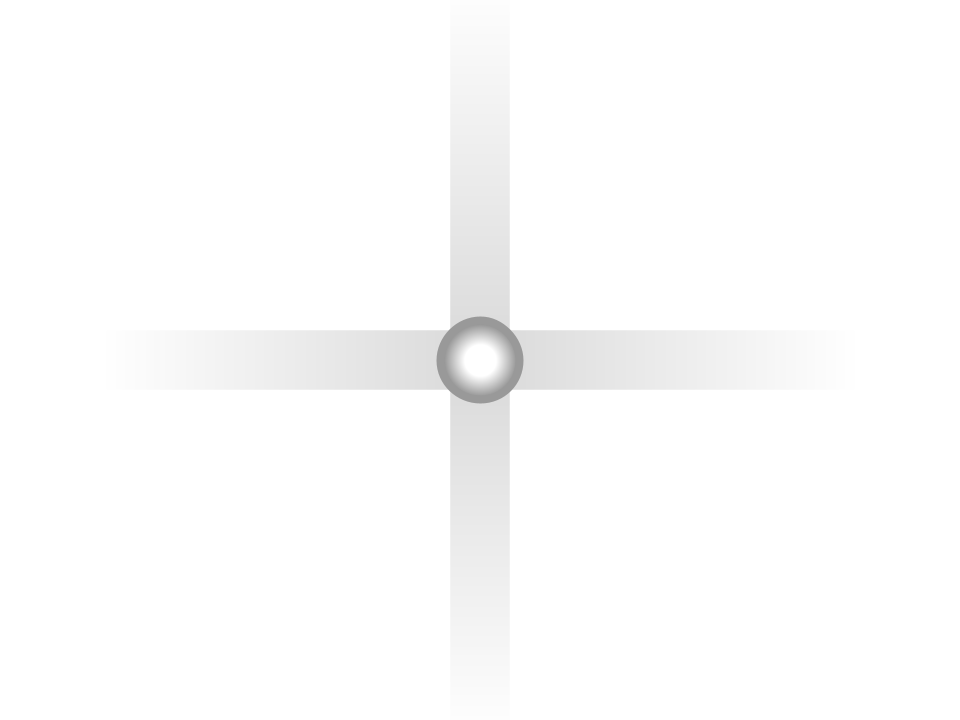
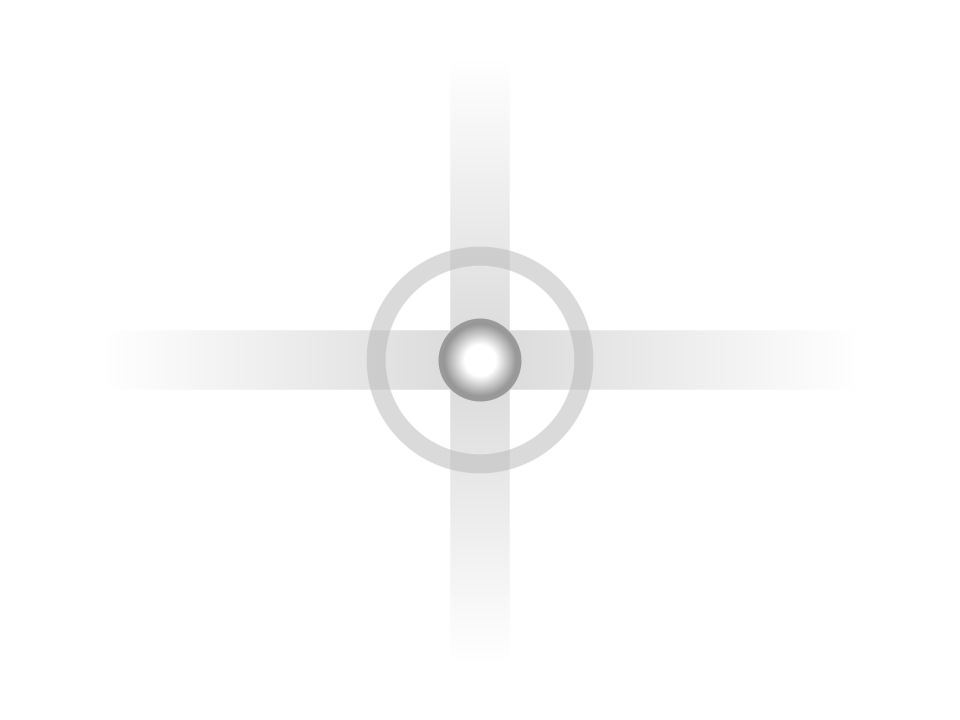
Major system update

diff --git a/GameRunner.java b/GameRunner.java
@@ -1,6 +1,7 @@
 import java.awt.event.*;
 import java.awt.Color;
 import java.awt.Dimension;
+import java.awt.Font;
 import java.awt.Graphics;
 import java.awt.Rectangle;
 import java.awt.image.BufferedImage;
@@ -11,13 +12,18 @@ import java.io.*;
 public class GameRunner extends JPanel implements KeyListener, ActionListener {
     Bullet b;
     BulletSprite cl = new BulletSprite();
-    BufferedImage emp = cl.BTABLE[0][0][18], e;
-    boolean up, down, left, right, focsus;
-    int x, y, size, dy, dx, focus = 7, W = emp.getWidth(), H = emp.getHeight(), gametime = 1;
+    BufferedImage player = cl.BTABLE[0][0][18], bulletImg, gamerender;
+    boolean up, down, left, right, focsus, bombing;
+    int x, y, size, dy, dx, focus = 7, W = player.getWidth(), H = player.getHeight(), gametime = 1;
     ArrayList<Bullet> bullets = new ArrayList<>(); //add mindustry/sol'srng/woomyarras spellcards
-    Spellcard spell = new SC1(1);
+    GameState gamestate = new GameState(0, 0, 1, 999, 999, 100, 1, 0);
+    Spellcard spell = new SC1(gamestate.difficulty);
     Rectangle bound;
     public GameRunner() throws IOException {
+        addKeyListener(this); 
+        setFocusable(true);
+        setPreferredSize(new Dimension(1440, 900));
+        setBackground(Color.BLACK);
         
         int[][] palette = spell.getPalette();
         for (int i = 0; i < palette.length; i++) {
@@ -25,13 +31,8 @@ public class GameRunner extends JPanel implements KeyListener, ActionListener {
         }
 
         size = 30;
-        x = 400;
-        y = 400;
-
-        addKeyListener(this); 
-        setFocusable(true);
-        setPreferredSize(new Dimension(1440, 900));
-        setBackground(Color.BLACK);
+        x = (int)getPreferredSize().getWidth() / 2;
+        y = (int)getPreferredSize().getHeight() / 2;
 
         bound = new Rectangle(300, 50, 
         (int)(this.getPreferredSize().getWidth() - 600), 
@@ -66,12 +67,29 @@ public class GameRunner extends JPanel implements KeyListener, ActionListener {
                 game over screen
         */
         
-        g.drawImage(emp, x - W / 2, y - H / 2, (int)W, (int)H, this);
+        g.drawImage(player, x - W / 2, y - H / 2, (int)W, (int)H, this);
 
         for(int i = 0; i < bullets.size(); i++) {
             bullets.set(i, spell.bulletUpdate(bullets.get(i)));
             b = bullets.get(i);
-            e = cl.BTABLE[b.palette][(int)(b.deg + 180) % 360][b.type];
+            bulletImg = cl.BTABLE[b.palette][(int)(b.deg + 180) % 360][b.type];
+
+            int distance = (int)Math.sqrt(Math.pow(b.x - x, 2) + Math.pow(b.y - y, 2));
+            if (distance < 15 && !b.grazed) {
+                gamestate.graze += 1;
+                b.grazed = true;
+            }
+            if (distance < b.hitRadius) {
+                gamestate.life -= 1;
+            }
+            if (bombing && gamestate.bomb > 0 && distance < 200) {
+                if (b.remainingLife > 29) {
+                    b.remainingLife = b.life - 29;
+                }
+                b.setVel(b.vel - 0.3);
+                b.setDeg(Math.toDegrees(Math.atan2(b.x - x, b.y - y)) + 90);
+                bullets.set(i, b);
+            }
 
             double p = 1.0;
             if (b.remainingLife > (b.life - 30)) {
@@ -80,12 +98,14 @@ public class GameRunner extends JPanel implements KeyListener, ActionListener {
                 p = (double)b.remainingLife / 30;
             }
 
-            g.drawImage(e, 
-            (int)(b.x - (e.getWidth() / 2 / b.size) * p), 
-            (int)(b.y - (e.getHeight() / 2 / b.size) * p), 
-            (int)(e.getWidth() / (b.size / p)), 
-            (int)(e.getHeight() / (b.size / p)), 
+            g.drawImage(bulletImg, 
+            (int)(b.x - (bulletImg.getWidth() / 2 / b.size) * p), 
+            (int)(b.y - (bulletImg.getHeight() / 2 / b.size) * p), 
+            (int)(bulletImg.getWidth() / (b.size / p)), 
+            (int)(bulletImg.getHeight() / (b.size / p)), 
             null);
+            
+            //g.setColor(Color.RED); g.drawArc((int)b.x - b.hitRadius, (int)b.y - b.hitRadius, b.hitRadius * 2, b.hitRadius * 2, 0, 360);
 
             bullets.get(i).updatePosition();
             if (bullets.get(i).lifetime()) {
@@ -94,17 +114,36 @@ public class GameRunner extends JPanel implements KeyListener, ActionListener {
             }
         }
 
+        if (bombing && gamestate.bomb > 0) {
+            gamestate.bomb -= 1;
+        }
+
         int minX = (int)bound.getMinX(), minY = (int)bound.getMinY(),
         maxX = (int)bound.getMaxX(), maxY = (int)bound.getMaxY(),
         width = (int)bound.getWidth(), height = (int)bound.getHeight();
-        x = Math.max(minX, Math.min(x + dx, maxX));
-        y = Math.max(minY, Math.min(y + dy, maxY));
         for(int i = minX; i >= 0; i--) {
             g.setColor(new Color(0, 0, 0, 1 - i / (float)minX));
             g.drawRect(minX - i, minY - i, width + 2 * i, height + 2 * i);
         }
-        g.setColor(new Color(Color.HSBtoRGB((float)((gametime % 360.0) / 360.0), 1, 1)));
-        g.drawRect(minX, minY, width, height);
+        for(int i = 3; i >= 0; i--) {
+            int sine = (int)(10 * i * Math.pow(Math.sin(gametime * 0.01), 2));
+            g.setColor(new Color(Color.HSBtoRGB((float)((gametime % 360.0) / 360.0), 1, 1f / (i + 1))));
+            g.drawRect(minX - sine - i, minY - sine - i, width + 2 * sine + 2 * i, height + 2 * sine + 2 * i);
+        }
+
+        g.setFont(new Font("Monospaced", Font.BOLD, 20));
+        g.drawString("Life: " + gamestate.life, minX, maxY + 32);
+        for(int i = 0; i < 6; i++) {
+            g.fill3DRect(minX + i + 120, maxY + 10 + i, (int)(200 * (gamestate.life / 1000.0)) - 2 * i, 30 - 2 * i, true);
+        }
+        g.drawString("Bomb: " + gamestate.bomb, minX + 340, maxY + 32);
+        for(int i = 0; i < 6; i++) {
+            g.fill3DRect(minX + i + 460, maxY + 10 + i, (int)(200 * (gamestate.bomb / 1000.0)) - 2 * i, 30 - 2 * i, true);
+        }
+        g.drawString("Graze: " + gamestate.graze, minX + 680, maxY + 32);
+
+        x = Math.max(minX, Math.min(x + dx, maxX));
+        y = Math.max(minY, Math.min(y + dy, maxY));
     }
     @Override
     public void actionPerformed(ActionEvent ae) {
@@ -136,6 +175,9 @@ public class GameRunner extends JPanel implements KeyListener, ActionListener {
         if (ke.getKeyCode() == KeyEvent.VK_SHIFT) {
             focsus = true;
         }
+        if (ke.getKeyCode() == KeyEvent.VK_X) {
+            bombing = true;
+        }
         if (ke.getKeyCode() == KeyEvent.VK_UP) {
             up = true;
         } else if (ke.getKeyCode() == KeyEvent.VK_DOWN) {
@@ -152,6 +194,9 @@ public class GameRunner extends JPanel implements KeyListener, ActionListener {
     public void keyReleased(KeyEvent ke) {
         if (ke.getKeyCode() == KeyEvent.VK_SHIFT) {
             focsus = false;
+        }
+        if (ke.getKeyCode() == KeyEvent.VK_X) {
+            bombing = false;
         }
         if (ke.getKeyCode() == KeyEvent.VK_UP) {
             up = false;

diff --git a/BulletSprite.java b/BulletSprite.java
@@ -5,7 +5,7 @@ import javax.imageio.*;
 public class BulletSprite {
     public BufferedImage[][][] BTABLE = new BufferedImage[360][360][50];
     public BulletSprite () throws IOException {
-        for (int i = 0; i < 34; i++) {
+        for (int i = 0; i < 38; i++) {
             BTABLE[0][0][i] = resizeImage(ImageIO.read(new File("Images/bullet" + i + ".png")), 200, 150);
             for (int j = 0; j < 360; j++) {
                 BTABLE[0][j][i] = rotateImage(BTABLE[0][0][i], -j);
@@ -14,8 +14,15 @@ public class BulletSprite {
         }
     }
     public void setPalette(int palette, int type, int hue, int graditude) {
+        setPaletteHSV(palette, type, hue, graditude, 0.4f, 0, 1, 0);
+    }
+    public void setPaletteHSV(int palette, int type, int hue, int graditude, float sat, float satitude, float val, float valitude) {
         for (int j = 0; j < 360; j++) {
-            BTABLE[palette][j][type] = recolorImage(BTABLE[0][j][type], hue + (int)(Math.cos(Math.PI * j / 180.0) * graditude));
+            BTABLE[palette][j][type] = recolorImage(BTABLE[0][j][type], 
+            hue + (int)(Math.cos(Math.PI * j / 180.0) * graditude),
+            sat + (float)(Math.cos(Math.PI * j / 180.0) * satitude),
+            val + (float)(Math.cos(Math.PI * j / 180.0) * valitude)
+            );
         }
     }
     public BufferedImage resizeImage(BufferedImage img, int newW, int newH) {  
@@ -37,26 +44,52 @@ public class BulletSprite {
         g.dispose();
         return gg;
     }
-    public BufferedImage recolorImage(BufferedImage src, int hue) {
-        int w = src.getWidth(), h = src.getHeight();
-        BufferedImage dst = new BufferedImage(w, h, BufferedImage.TYPE_INT_ARGB);
-        final float H = (float)(hue / 360.0);
+    public BufferedImage recolorImage(BufferedImage src, int hueDeg, float satTarget, float valMul) {
+            final int w = src.getWidth(), h = src.getHeight();
+    final int[] srcPix = src.getRGB(0, 0, w, h, null, 0, w);
+    final int[] dstPix = new int[srcPix.length];
 
-        for (int y = 0; y < h; y++) {
-            for (int x = 0; x < w; x++) {
-                int argb = src.getRGB(x, y);
-                int a = (argb >>> 24) & 0xFF;
-                if (a == 0) { // 완전 투명은 그대로
-                    dst.setRGB(x, y, 0x00000000);
-                    continue;
-                }
-                int r = (argb >>> 16) & 0xFF;
-                float s = 1f - (r / 255f);
-                float v = (r / 255f);
-                int rgb = Color.HSBtoRGB(H, s, v) & 0x00FFFFFF;
-                dst.setRGB(x, y, (a << 24) | rgb);
-            }
+    final float hue = ((hueDeg % 360) + 360) % 360 / 360f;
+
+    // 임계값: “하양으로 남길” 밝기/색차 기준, “회색으로 간주할” 색차 기준
+    final int WHITE_LUMA_THR = 250;     // r,g,b >= 250 → 거의 하양
+    final int GRAY_DELTA_THR = 10;      // |r-g|,|r-b|,|g-b| <= 10 → 회색 계열로 간주
+
+    for (int i = 0; i < srcPix.length; i++) {
+        int p = srcPix[i];
+        int a = (p >>> 24) & 0xFF;
+        if (a == 0) { dstPix[i] = 0x00000000; continue; }
+
+        int r = (p >>> 16) & 0xFF;
+        int g = (p >>>  8) & 0xFF;
+        int b =  p         & 0xFF;
+
+        // 거의 하양? 그대로 둔다(완전 흰색 유지)
+        if (r >= WHITE_LUMA_THR && g >= WHITE_LUMA_THR && b >= WHITE_LUMA_THR) {
+            dstPix[i] = (a << 24) | (r << 16) | (g << 8) | b;
+            continue;
         }
-        return dst;
+
+        // 회색 계열? → hue 입히고 채도/밝기 조정
+        int rg = Math.abs(r - g), rb = Math.abs(r - b), gb = Math.abs(g - b);
+        if (rg <= GRAY_DELTA_THR && rb <= GRAY_DELTA_THR && gb <= GRAY_DELTA_THR) {
+            float[] hsb = Color.RGBtoHSB(r, g, b, null);
+            float s = clamp01(satTarget);           // 회색은 s≈0 → 목표 채도로 강제
+            float v = clamp01(hsb[2] * valMul);     // 밝기는 원본 기반 배율
+            int rgb = Color.HSBtoRGB(hue, s, v) & 0x00FFFFFF;
+            dstPix[i] = (a << 24) | rgb;
+        } else {
+            // 회색 아니면 원본 유지(원하면 여기서도 약한 틴트 가능)
+            dstPix[i] = (a << 24) | (r << 16) | (g << 8) | b;
+        }
+    }
+
+    BufferedImage dst = new BufferedImage(w, h, BufferedImage.TYPE_INT_ARGB);
+    dst.setRGB(0, 0, w, h, dstPix, 0, w);
+    return dst;
+
+    }
+    private static float clamp01(float v) {
+        return v < 0f ? 0f : (v > 1f ? 1f : v);
     }
 }

diff --git a/TouhouQuartet.java b/TouhouQuartet.java
@@ -1,25 +1,22 @@
 import javax.swing.*;
-import java.awt.Color;
 import java.awt.Dimension;
-import java.awt.Toolkit;
 import java.io.IOException;
 
 public class TouhouQuartet {
     public static void main(String[] args) throws IOException {
-        //SwingUtilities.invokeLater(() -> {
-            try {
-                JFrame frame = new JFrame("Touhou Four");
-                frame.setDefaultCloseOperation(JFrame.EXIT_ON_CLOSE);
-                GameRunner g = new GameRunner();
-                frame.add(g);
-                frame.setPreferredSize(new Dimension(1440, 900));
-                frame.pack();
-                frame.setVisible(true);
-                frame.toFront();
-            } catch (Exception e) {
-                e.printStackTrace();
-                System.out.print("OMG");
-            }
-        //});
+        try {
+            System.setProperty("sun.java2d.opengl","true");
+            JFrame frame = new JFrame("Touhou Four");
+            frame.setDefaultCloseOperation(JFrame.EXIT_ON_CLOSE);
+            GameRunner g = new GameRunner();
+            frame.add(g);
+            frame.setPreferredSize(new Dimension(1440, 900));
+            frame.pack();
+            frame.setVisible(true);
+            frame.toFront();
+        } catch (Exception e) {
+            e.printStackTrace();
+            System.out.print("OMG");
+        }
     }
 }

diff --git a/Spellcard.java b/Spellcard.java
@@ -20,30 +20,29 @@ public abstract class Spellcard {
             ioe.printStackTrace();
         }
         return null;
-        
     }
 }
 class SC1 extends Spellcard {
     private double t;
+    int type = 29;
     public SC1(int difficulty) {
         super(difficulty);
     }
     public int[][] getPalette() {
-        int[][] r = {{1, 25, 260, 0}, {2, 25, 280, 180}, {3, 25, 300, 50}};
+        int[][] r = {{1, type, 260, 0}, {2, type, 280, 180}, {3, type, 300, 50}};
         return r;
     }
     public ArrayList<Bullet> bulletRequest(int centx, int centy, int vectorx, int vectory) {
         ArrayList<Bullet> bullets = new ArrayList<>();
         for(int i = 0; i < 9; i++) {
-            int type = 25;
-            bullets.add(new Bullet(centx, centy, type, i % 3 + 1, Math.pow(t, 1.5) + 90 * Math.pow(-1, i) + i, 3 + 0.1 * i, 6, 300 - 30 * i, "" + i));
+            bullets.add(new Bullet(720, 0, type, i % 3 + 1, Math.pow(t, 1.5) + 90 * Math.pow(-1, i) + i, 3, 3, 400, 6, "" + i));
         }
         return bullets;
     }
     public Bullet bulletUpdate(Bullet b) {
-        for (int i = 0; i < 8; i++) {
+        for (int i = 0; i < 9; i++) {
             if (b.tag.equals("" + i)) {
-                b.setDeg(b.deg += 0.06 * i);
+                //b.deg += 2;
             }
         }
         return b;

diff --git a/Bullet.java b/Bullet.java
@@ -1,18 +1,9 @@
 public class Bullet {
-    public int type;
-    public int palette;
-    public double x;
-    public double y;
-    public double deg;
-    public double vel;
-    public double dx;
-    public double dy;
-    public double size;
-    public int remainingLife;
-    public int life;
-    public double delay;
+    public int type, palette, remainingLife, life, hitRadius;
+    public double x, y, deg, vel, dx, dy, size;
     public String tag;
-    public Bullet(int startx, int starty, int type, int palette, double deg, double vel, double size, int life, String tag) {
+    public boolean grazed;
+    public Bullet(int startx, int starty, int type, int palette, double deg, double vel, double size, int life, int hitRadius, String tag) {
         this.deg = deg;
         this.vel = vel;
         this.type = type;
@@ -21,6 +12,7 @@ public class Bullet {
         this.life = life;
         dx = Math.sin(Math.toRadians(deg)) * vel;
         dy = Math.cos(Math.toRadians(deg)) * vel;
+        this.hitRadius = hitRadius;
         this.tag = tag;
         this.x = startx;
         this.y = starty;

diff --git a/GameState.java b/GameState.java
@@ -1,19 +1,13 @@
-public class GameState
-{
-    private int player;
-    private int difficulty;
-    private int stage;
-    private int life;
-    private int bomb;
-    private int itemValue;
-    private int power;
-    private int graze;
-    public GameState()
-    {
-        
-    }
-    public int sampleMethod(int y)
-    {
-        return 3;
+public class GameState {
+    public int player, difficulty, stage, life, bomb, itemValue, power, graze;
+    public GameState(int player, int difficulty, int stage, int life, int bomb, int itemValue, int power, int graze) {
+        this.player = player;
+        this.difficulty = difficulty;
+        this.stage = stage;
+        this.life = life;
+        this.bomb = bomb;
+        this.itemValue = itemValue;
+        this.power = power;
+        this.graze = graze;
     }
 }
